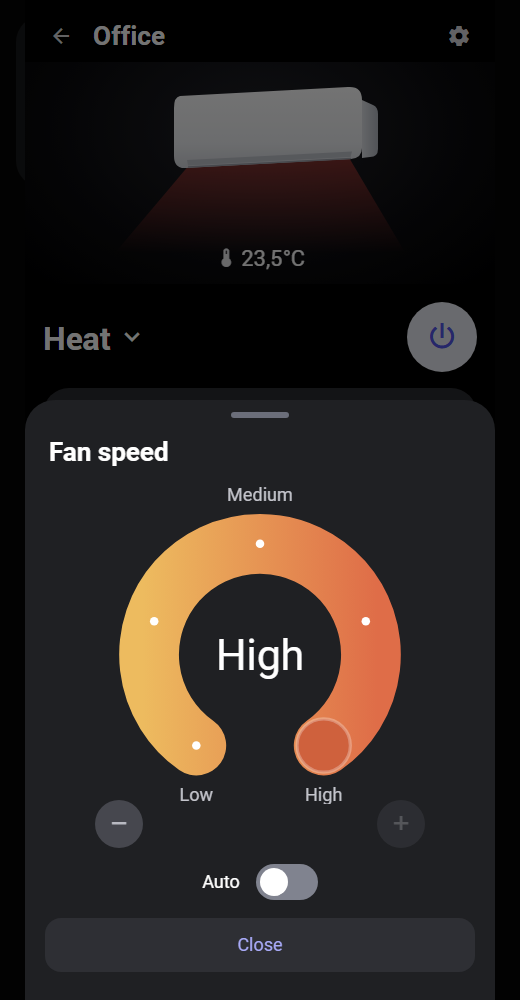
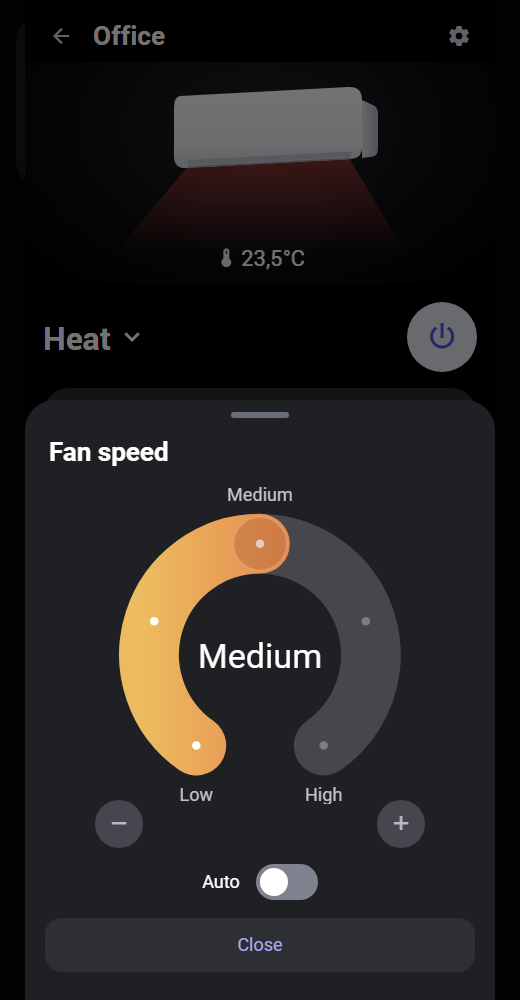
Release 1.5.1: fan speed dial fills up to the selected speed
- Grey track, coloured only up to the selected speed, like the ThinQ app
- Dutch fan speed labels as in the app (Laag, Med, Hoog)
- Release script in English with tidy commit messages

diff --git a/dist/thinq-airco-card.js b/dist/thinq-airco-card.js
@@ -16,11 +16,11 @@
  *                                       entity overrides; found automatically on the same device.
  *                                       Set to false to hide a feature.
  */
-const LG_VERSION = '1.5.0';
+const LG_VERSION = '1.5.1';
 const LG_I18N = {
   nl: {
     'm.cool': 'Koelen', 'm.dry': 'Ontvochtigen', 'm.fan_only': 'Ventilator', 'm.heat': 'Warmte', 'm.heat_cool': 'Auto', 'm.auto': 'Auto', 'm.__on': 'Inschakelen…',
-    'f.low': 'Laag', 'f.LOW_MID': 'Laag-midden', 'f.medium': 'Midden', 'f.MID_HIGH': 'Midden-hoog', 'f.high': 'Hoog', 'f.diffuse': 'Auto', 'f.auto': 'Auto',
+    'f.low': 'Laag', 'f.LOW_MID': 'Laag-med', 'f.medium': 'Med', 'f.MID_HIGH': 'Med-hoog', 'f.high': 'Hoog', 'f.diffuse': 'Auto', 'f.auto': 'Auto',
     'f.SLOW': 'Zeer laag', 'f.SLOW_LOW': 'Zeer laag-laag', 'f.POWER': 'Turbo',
     'v.Off': 'Vast', 'v.Top': 'Boven', 'v.MiddleTop1': 'Stand 2', 'v.MiddleTop2': 'Stand 3', 'v.MiddleBottom2': 'Stand 4', 'v.MiddleBottom1': 'Stand 5', 'v.Bottom': 'Onder', 'v.Swing': 'Zwenken',
     'h.Off': 'Vast', 'h.Left': 'Links', 'h.MiddleLeft': 'Midden-links', 'h.Center': 'Midden', 'h.MiddleRight': 'Midden-rechts', 'h.Right': 'Rechts',
@@ -196,18 +196,29 @@ const lgFanPos = (n, i) => {
   const g = LG_FAN_GEO, deg = g.a0 + (n > 1 ? (i * g.span) / (n - 1) : g.span / 2), a = (deg * Math.PI) / 180;
   return [+(g.cx + Math.cos(a) * g.r).toFixed(1), +(g.cy + Math.sin(a) * g.r).toFixed(1)];
 };
+// boogpad van het begin tot stap i (i = -1: geen gekleurd deel)
+const lgFanArcD = (n, i) => {
+  const g = LG_FAN_GEO, rad = (d) => (d * Math.PI) / 180;
+  if (i < 0) return '';
+  const end = g.a0 + (n > 1 ? (i * g.span) / (n - 1) : g.span / 2) + 0.01;
+  const sx = g.cx + Math.cos(rad(g.a0)) * g.r, sy = g.cy + Math.sin(rad(g.a0)) * g.r;
+  const ex = g.cx + Math.cos(rad(end)) * g.r, ey = g.cy + Math.sin(rad(end)) * g.r;
+  return `M${sx.toFixed(1)} ${sy.toFixed(1)} A${g.r} ${g.r} 0 ${end - g.a0 > 180 ? 1 : 0} 1 ${ex.toFixed(1)} ${ey.toFixed(1)}`;
+};
 function lgFanPic(n, idx, isAuto, labels, center) {
   const g = LG_FAN_GEO, rad = (d) => (d * Math.PI) / 180;
   const sx = g.cx + Math.cos(rad(g.a0)) * g.r, sy = g.cy + Math.sin(rad(g.a0)) * g.r;
   const ex = g.cx + Math.cos(rad(g.a0 + g.span)) * g.r, ey = g.cy + Math.sin(rad(g.a0 + g.span)) * g.r;
   let dots = '';
-  for (let i = 0; i < n; i++) { const [x, y] = lgFanPos(n, i); dots += `<circle cx="${x}" cy="${y}" r="4"/>`; }
+  for (let i = 0; i < n; i++) { const [x, y] = lgFanPos(n, i); dots += `<circle class="${idx >= 0 && i <= idx ? 'lit' : ''}" cx="${x}" cy="${y}" r="4"/>`; }
   const [tx, ty] = idx >= 0 ? lgFanPos(n, idx) : [g.cx, g.cy];
   const [lx0, ly0] = lgFanPos(n, 0), [lx1, ly1] = lgFanPos(n, n - 1);
+  // grijze boog over de hele lengte, gekleurd deel van "laag" tot de ingestelde stand (zoals de ThinQ-app)
   return `<svg class="fanpic${isAuto ? ' auto' : ''}" viewBox="0 0 300 300">
     <defs><linearGradient id="fg" gradientUnits="userSpaceOnUse" x1="40" y1="0" x2="260" y2="0"><stop offset="0" stop-color="#edbb5f"/><stop offset="1" stop-color="#df6d48"/></linearGradient></defs>
-    <path class="arc" d="M${sx.toFixed(1)} ${sy.toFixed(1)} A${g.r} ${g.r} 0 1 1 ${ex.toFixed(1)} ${ey.toFixed(1)}" stroke="url(#fg)" stroke-width="${g.w}" stroke-linecap="round" fill="none"/>
-    <g class="dots" fill="#fff">${dots}</g>
+    <path class="arc" d="M${sx.toFixed(1)} ${sy.toFixed(1)} A${g.r} ${g.r} 0 1 1 ${ex.toFixed(1)} ${ey.toFixed(1)}" stroke-width="${g.w}" stroke-linecap="round" fill="none"/>
+    <path class="prog" d="${lgFanArcD(n, isAuto ? -1 : idx)}" stroke="url(#fg)" stroke-width="${g.w}" stroke-linecap="round" fill="none"/>
+    <g class="dots">${dots}</g>
     <circle class="thumb" cx="${tx}" cy="${ty}" r="25" ${idx >= 0 ? '' : 'style="display:none"'}/>
     <text class="ctext" x="${g.cx}" y="${g.cy + 4}" style="font-size:${lgFanFont(center)}px">${lgEsc(center)}</text>
     <text class="lab" x="${lx0}" y="${ly0 + 52}">${lgEsc(labels[0])}</text>
@@ -412,8 +423,12 @@ dialog.bsheet::backdrop { background: rgba(0,0,0,.55); }
 .fanpic { width: 100%; max-width: 320px; height: auto; touch-action: none; user-select: none; -webkit-user-select: none; cursor: pointer; }
 .fanpic .lab { fill:#c4c5cc; font-size: 17px; text-anchor: middle; }
 .fanpic .ctext { fill: currentColor; font-size: 40px; text-anchor: middle; dominant-baseline: middle; }
-.fanpic .thumb { fill:#cf613d; stroke: rgba(255,255,255,.28); stroke-width: 3; }
-.fanpic.auto .arc, .fanpic.auto .dots { opacity: .3; }
+.fanpic .arc { stroke:#46474c; }
+.fanpic .dots circle { fill:#7d7e84; }
+.fanpic .dots circle.lit { fill:#fff; }
+.fanpic .thumb { fill: rgba(150, 80, 40, .28); stroke: rgba(255,255,255,.12); stroke-width: 2; }
+.fanpic.auto .dots { opacity: .6; }
+:host([bg=theme]) .fanpic .arc { stroke: var(--secondary-background-color, #46474c); }
 .fanpm { display:flex; justify-content:space-between; width: 100%; max-width: 330px; margin-top: -4px; }
 .fanpm .round:disabled { opacity: .35; cursor: default; }
 .autorow { display:flex; align-items:center; justify-content:center; gap: 16px; margin-top: 16px; font-size: 18px; }
@@ -943,6 +958,8 @@ class LgAircoPanel extends HTMLElement {
     const live = (i) => {
       const [x, y] = lgFanPos(n, i);
       const th = svg.querySelector('.thumb'); th.setAttribute('cx', x); th.setAttribute('cy', y); th.style.display = '';
+      svg.querySelector('.prog').setAttribute('d', lgFanArcD(n, i));
+      svg.querySelectorAll('.dots circle').forEach((c, k) => c.classList.toggle('lit', k <= i));
       const ct = svg.querySelector('.ctext'), txt = LG_FAN[manual[i]] || manual[i];
       ct.textContent = txt; ct.style.fontSize = `${lgFanFont(txt)}px`;
       svg.classList.remove('auto');

diff --git a/CHANGELOG.md b/CHANGELOG.md
@@ -1,5 +1,10 @@
 # Changelog
 
+## 1.5.1 — 2026-11-21
+
+- Fan speed dial: grey track, coloured only up to the selected speed (like the ThinQ app)
+- Dutch fan labels as in the app (Laag, Med, Hoog)
+
 ## 1.5.0 — 2026-11-21
 
 - Airflow sheet like the ThinQ app: Up/Down and Left/Right pictures with rays, arrow buttons and swing switches
